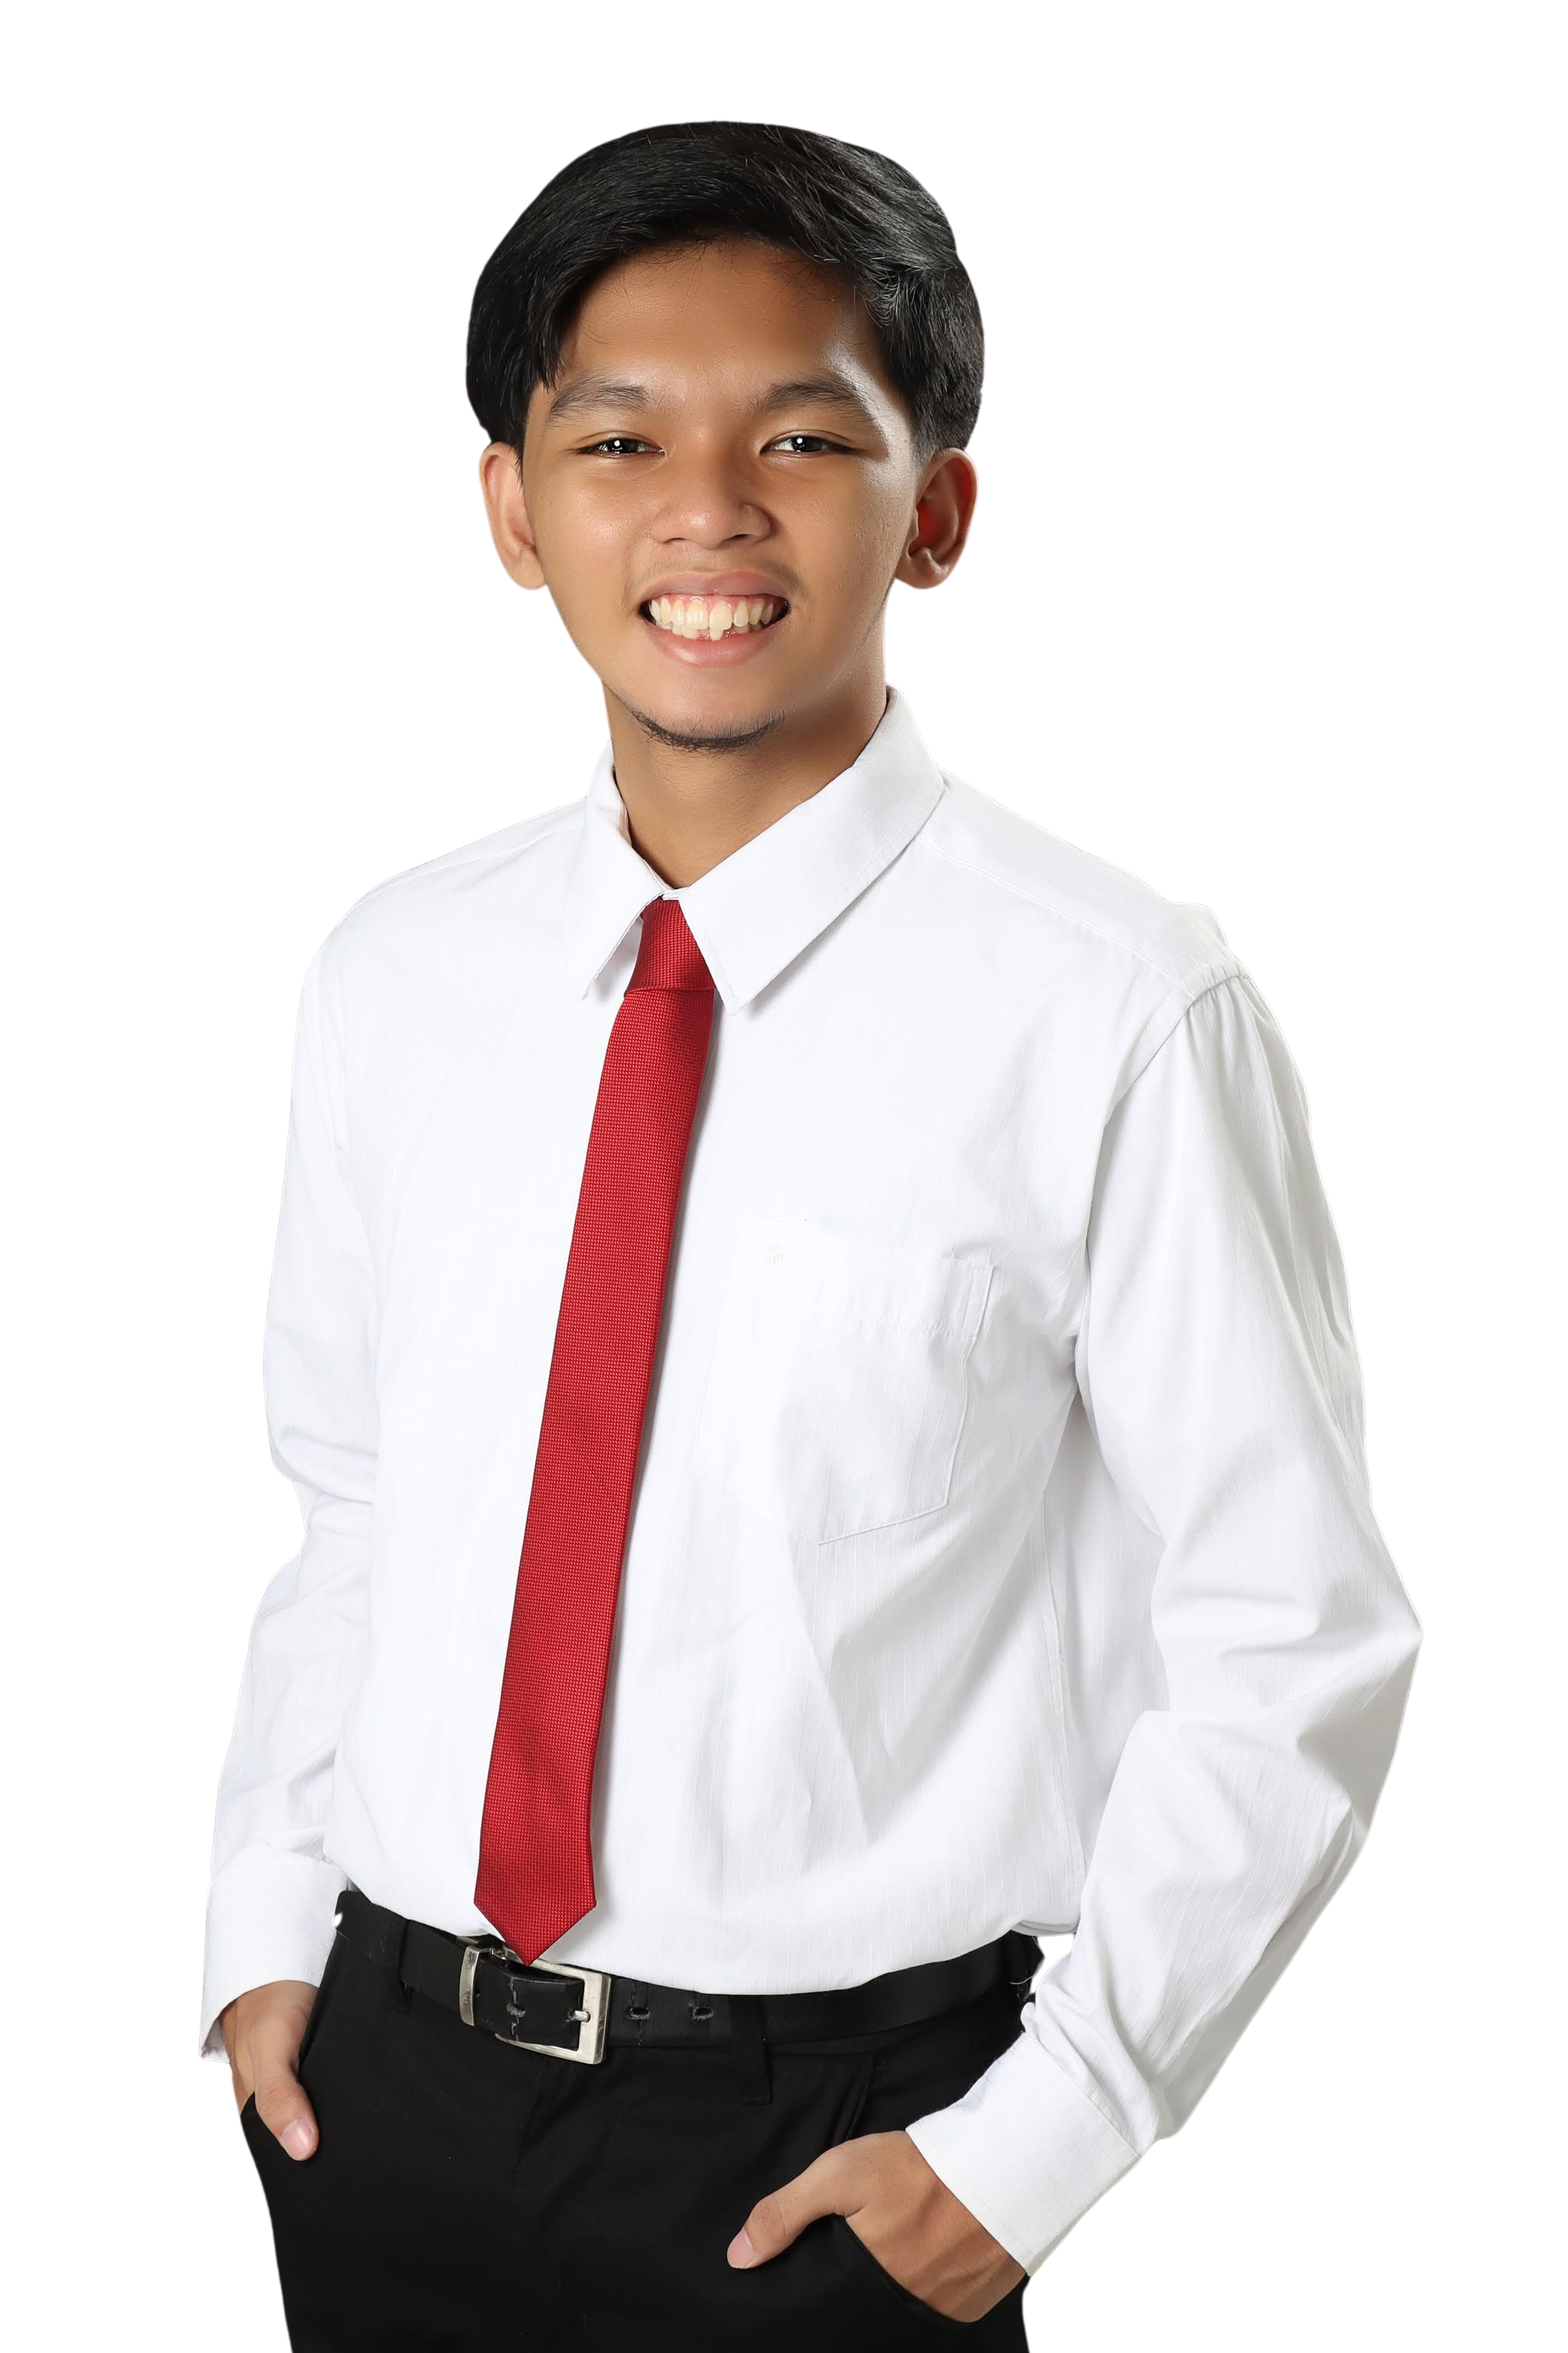
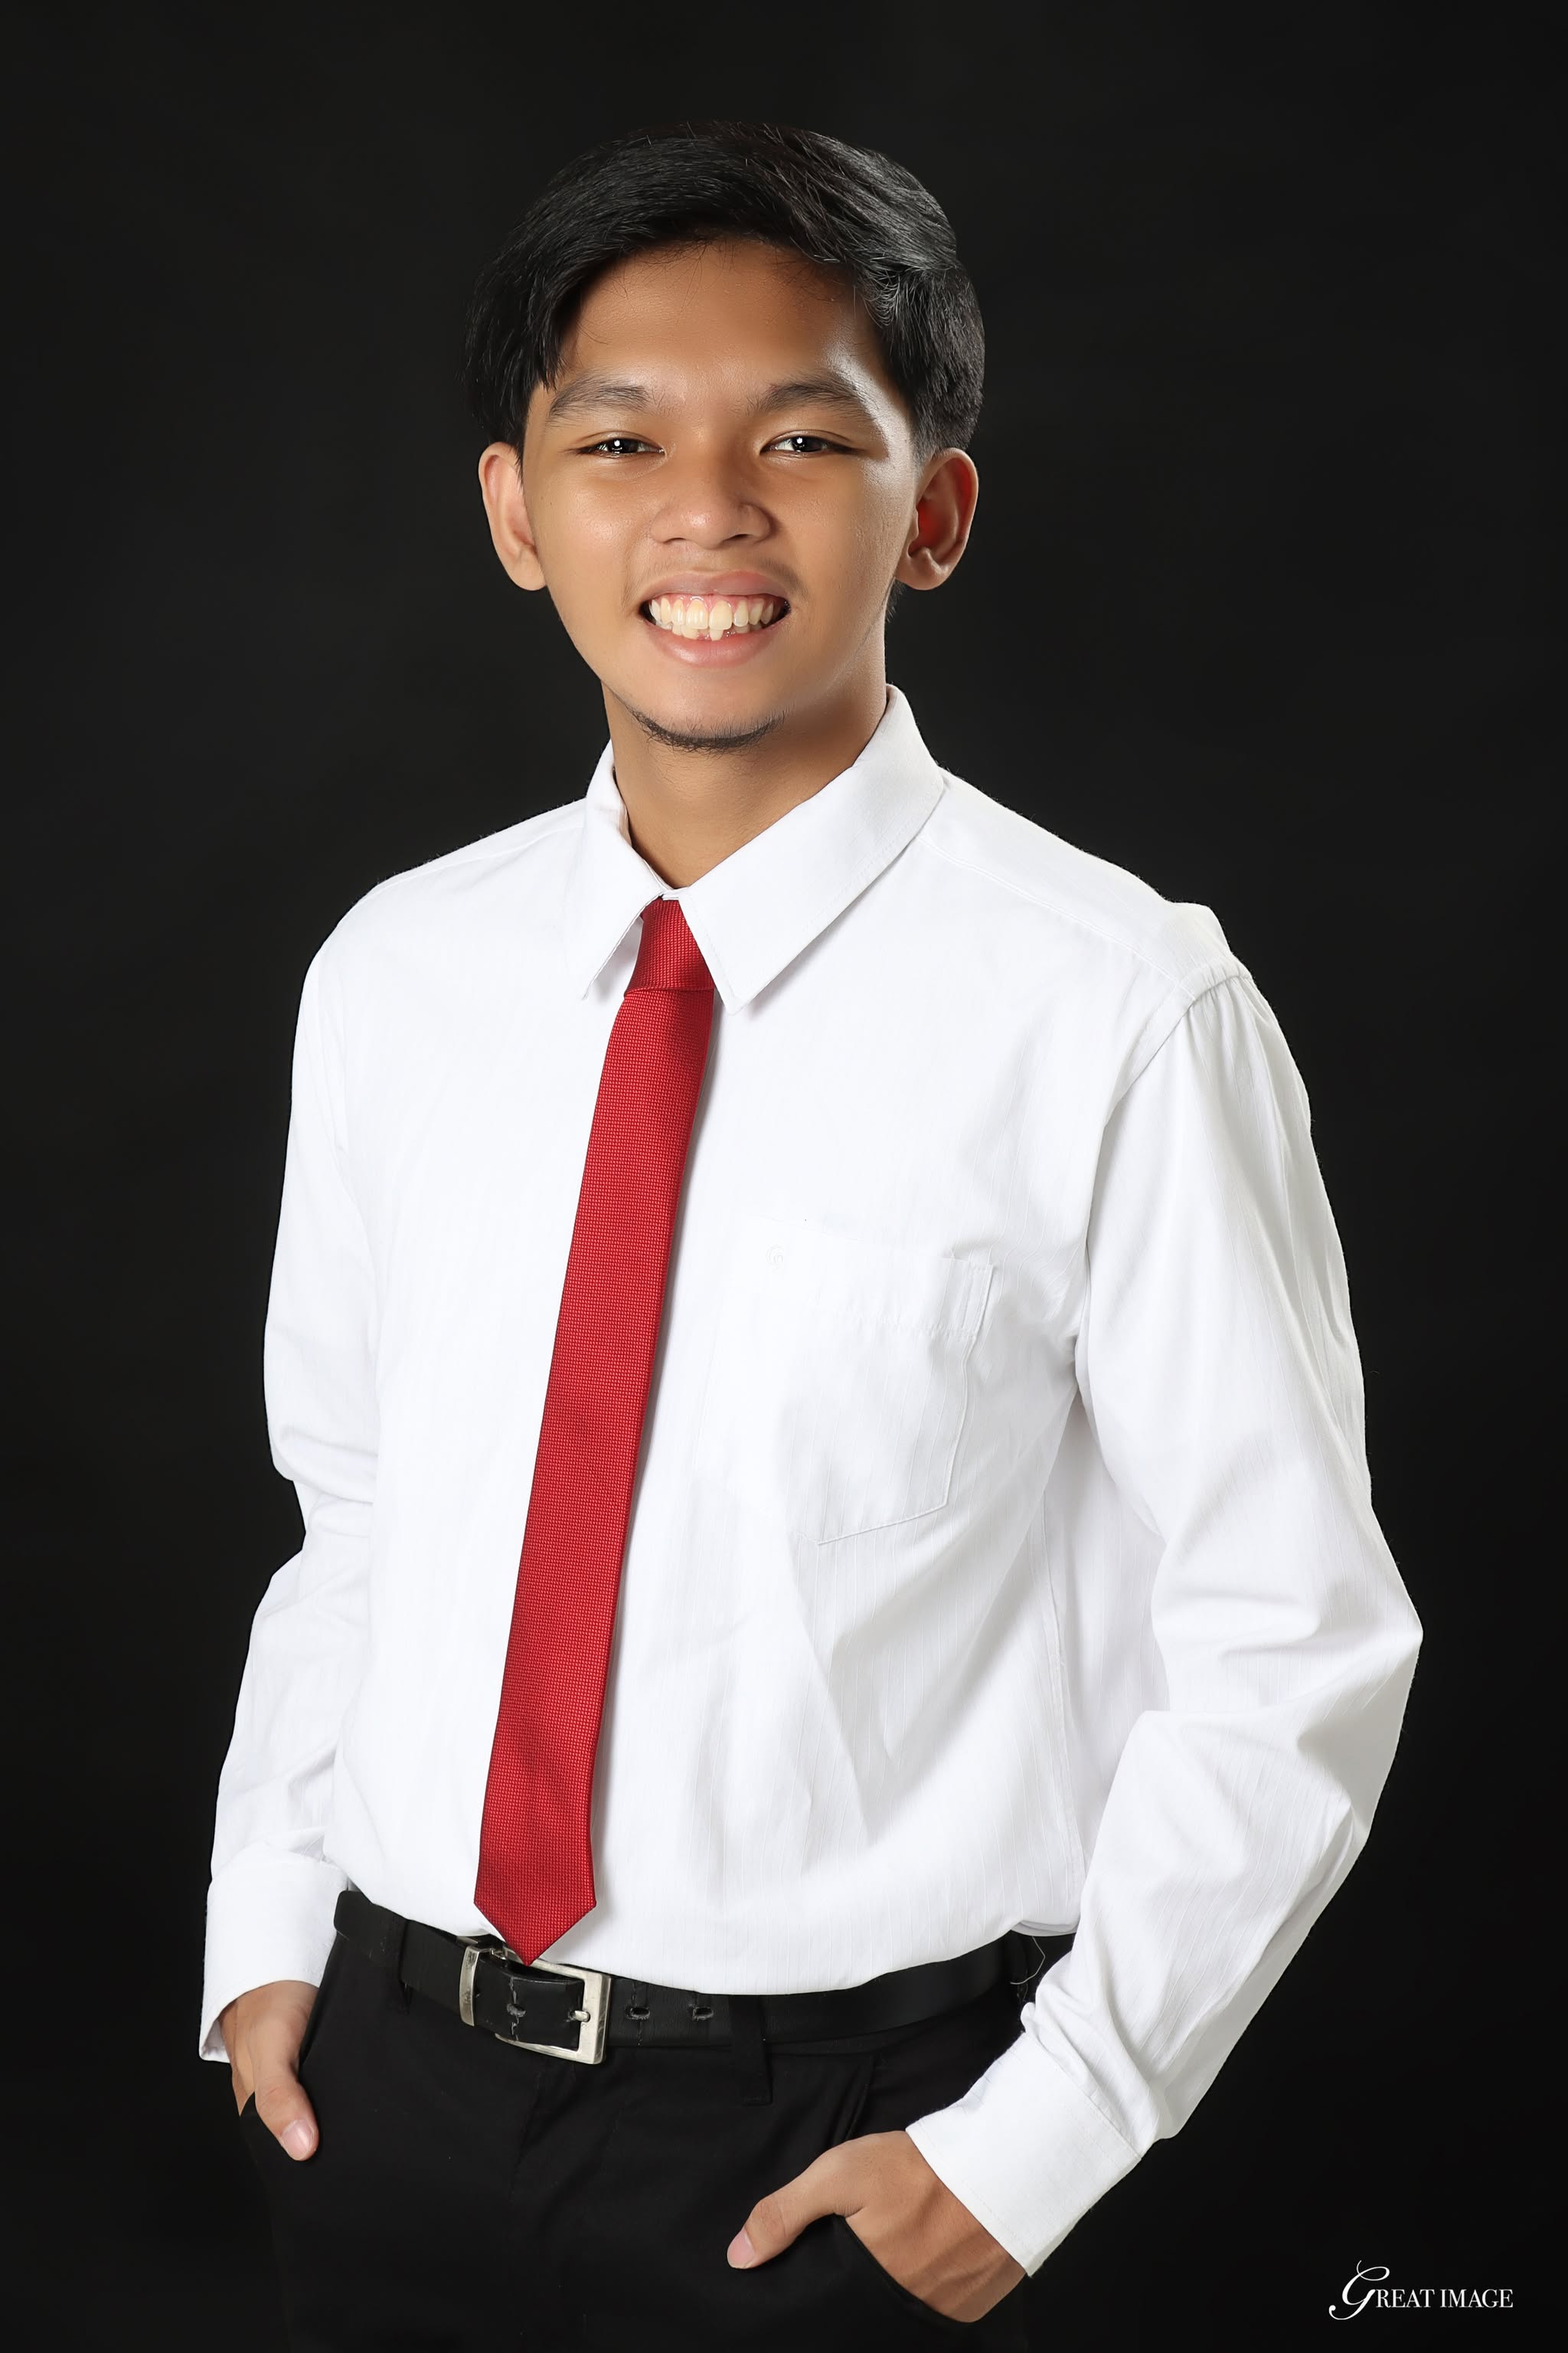
feat: update personal information and enhance profile image styling

diff --git a/src/data/personal.ts b/src/data/personal.ts
@@ -1,8 +1,8 @@
 export const personalInfo = {
   name: "Jan Dolby Aquino",
-  displayName: "dolbus",
+  displayName: "Hi, I'm Dolby!",
   role: "Full-Stack Developer • Administrative Virtual Assistant",
-  profileStats: "10 Public Playlists • 12 Followers • 24 Following",
+  profileStats: "10+ Projects • 4+ Years Learning • 2+ Years Experience",
   currentFocus: "Building Spotify-Inspired Portfolio",
   image: "/profile/profile.jpg",
   coverImage: "/profile/cover.jpg",

diff --git a/src/styles/sections.css b/src/styles/sections.css
@@ -34,6 +34,7 @@
   width: 208px;
   height: 208px;
   object-fit: cover;
+  object-position: 50% 10%;
   border-radius: 50%;
   box-shadow: var(--shadow-strong);
 }
